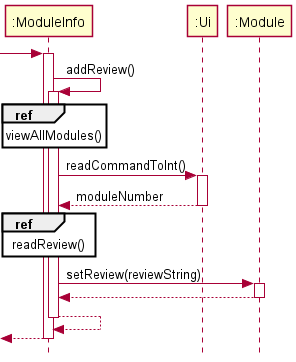
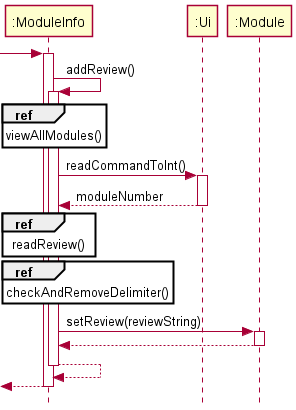
edited PPP & addNewReview diagram

diff --git a/docs/team/nivikcivik.md b/docs/team/nivikcivik.md
@@ -67,8 +67,14 @@ Here are my implementations and the links to the following sections of our Devel
 1. [Delete a Review](https://ay2021s2-cs2113t-f08-4.github.io/tp/DeveloperGuide.html#406-delete-a-review)
 1. [Instructions for manual testing](https://ay2021s2-cs2113t-f08-4.github.io/tp/DeveloperGuide.html#9-instructions-for-manual-testing)
 
-The following are the diagrams I have added:
+The following are the diagrams I have added:  
 
+![Diagram](../diagrams/moduleInfo/module/addNewModule.png)  
+*Figure 1* Add New Module (Click [here](https://ay2021s2-cs2113t-f08-4.github.io/tp/DeveloperGuide.html#401-add-new-module) for link to this section of DG)  
+
+
+![Diagram](../diagrams/moduleInfo/addNewReview.png)  
+*Figure 2* Add New Review (Click [here](https://ay2021s2-cs2113t-f08-4.github.io/tp/DeveloperGuide.html#405-add-new-review) for link to this section of DG)  
 
 ### Contributions to team-based tasks
 
